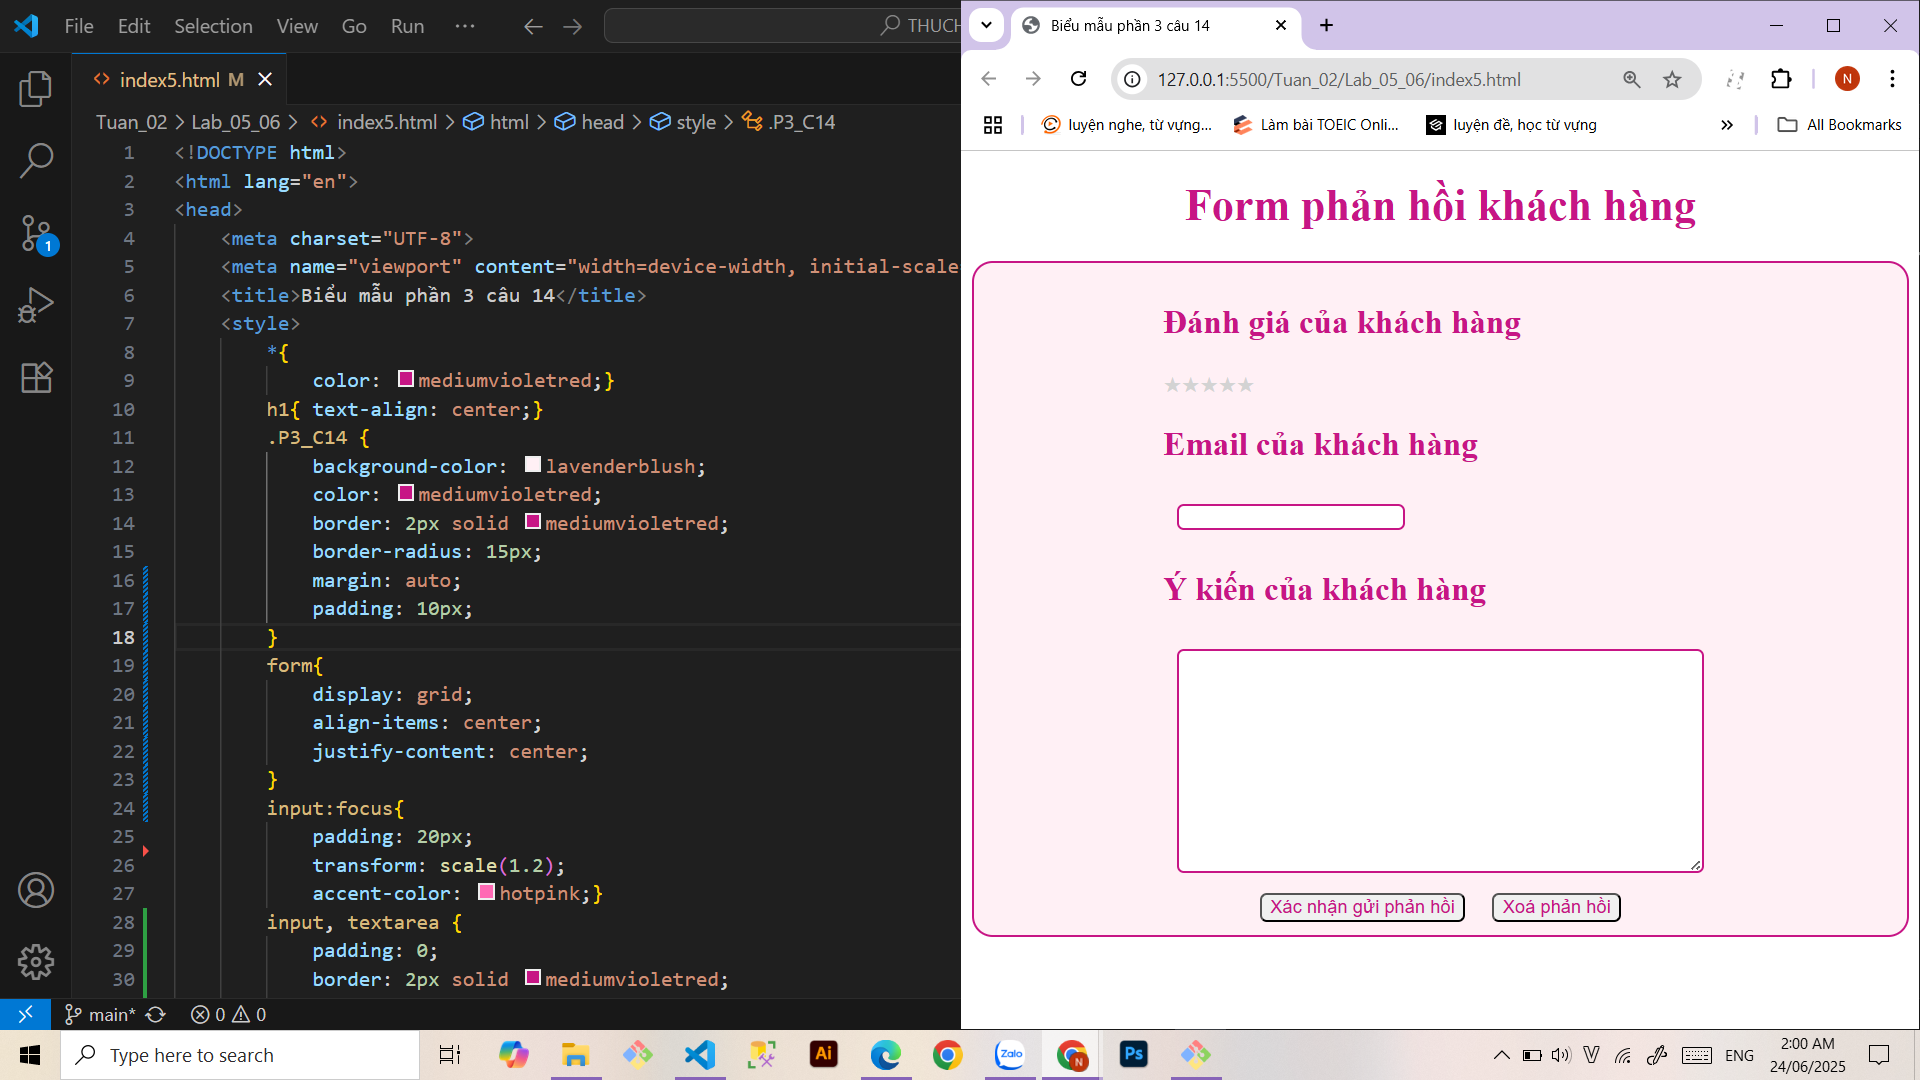
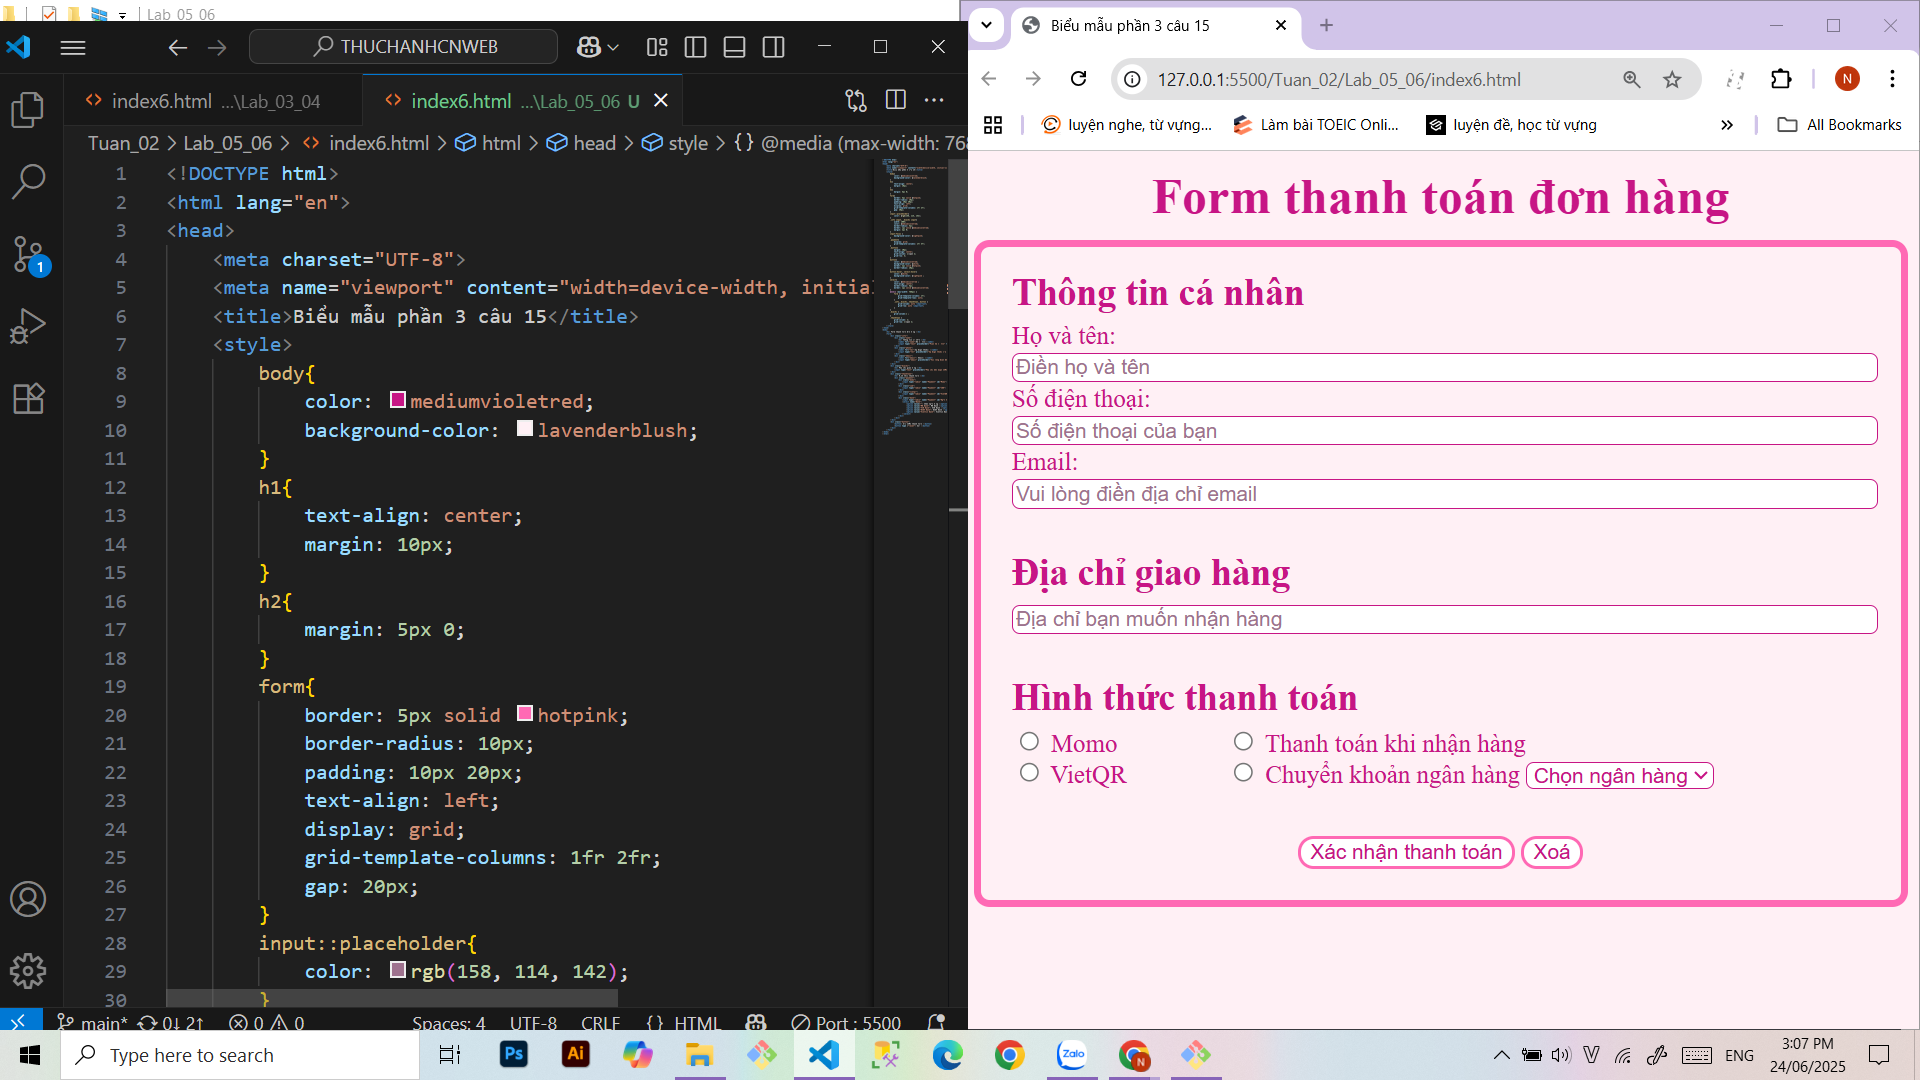
add file MC P3_C15.png + update index6.html

diff --git a/Tuan_02/Lab_05_06/index6.html b/Tuan_02/Lab_05_06/index6.html
@@ -1,0 +1,138 @@
+<!DOCTYPE html>
+<html lang="en">
+<head>
+    <meta charset="UTF-8">
+    <meta name="viewport" content="width=device-width, initial-scale=1.0">
+    <title>Biểu mẫu phần 3 câu 15</title>
+    <style>
+        body{
+            color: mediumvioletred;
+            background-color: lavenderblush;
+        }
+        h1{
+            text-align: center;
+            margin: 10px;
+        }
+        h2{
+            margin: 5px 0;
+        }
+        form{
+            border: 5px solid hotpink;
+            border-radius: 10px;
+            padding: 10px 20px;
+            text-align: left;
+            display: grid;
+            grid-template-columns: 1fr 2fr;
+            gap: 20px;
+        }
+        input::placeholder{
+            color: rgb(158, 114, 142);
+        }
+        .info input, .diachi input{
+            width: 100%;
+            color: mediumvioletred;
+            border-radius: 5px;
+            border: 1px solid mediumvioletred;
+            margin: 2px 0;
+        }
+        input:focus {
+            background-color: lightpink;
+        }
+        .payment{
+            display: grid;
+            grid-template-columns: 1fr 3fr;
+        }
+        .button{
+            margin: 10px;
+            text-align: center;
+            grid-column: 1/span 2;
+            grid-row: 3;
+        }
+        button{
+            color: mediumvioletred;
+            background-color: white;
+            border: 2px solid hotpink;
+            border-radius: 10px;  
+        }
+        button:hover, select:hover{
+            color: white;
+            background-color: lightpink ;
+        }
+        select{
+            color: mediumvioletred ;
+            text-align: center;
+            border-radius: 5px;
+            border: 1px solid mediumvioletred;
+        }
+        @media (max-width: 768px) {
+            form {
+                grid-template-columns: 1fr;
+                grid-template-rows: auto;
+            }
+            .info,.diachi,.thanhtoan,.button {
+                grid-column: auto !important;
+                grid-row: auto !important;
+            }
+        }
+        .diachi {
+            grid-column:1 ;
+        }
+        .thanhtoan {
+            grid-column: 2;
+            grid-row: 1/span 2;
+        }
+    </style>
+</head>
+<body>
+    <h1> Form thanh toán đơn hàng </h1>
+    <form>
+        <div class="info">
+            <div class="name">
+                <h2> Thông tin cá nhân </h2>
+                <label for="name">Họ và tên:</label> 
+                <input type="text" placeholder="Điền họ và tên" required>
+            </div>
+            <div class="phone">
+                <label for="tel">Số điện thoại: </label> 
+                <input type="tel" placeholder="Số điện thoại của bạn" required>
+            </div>
+            <div class="email">
+                <label for="email"> Email: </label> 
+                <input type="email" placeholder="Vui lòng điền địa chỉ email">
+            </div>
+        </div>
+        <div class="diachi">
+            <h2> Địa chỉ giao hàng </h2>
+            <input type="text" placeholder="Địa chỉ bạn muốn nhận hàng" required>
+        </div>
+        <div class="thanhtoan">
+            <h2> Hình thức thanh toán </h2>
+            <div class="payment">
+                <div class="momo">
+                    <input type="radio" name="Payment" id="Momo"> Momo <br>
+                </div>
+                <div class="cod">
+                    <input type="radio" name="Payment" id="COD"> Thanh toán khi nhận hàng 
+                </div>
+                <div class="vietqr">
+                    <input type="radio" name="Payment" id="VietQR"> VietQR 
+                </div>
+                <div class="bank">
+                    <input type="radio" name="Payment" id="Ngân hàng"> Chuyển khoản ngân hàng
+                    <select name="Bank">
+                        <option value=""> Chọn ngân hàng </option>
+                        <option value="MB Bank"> MB Bank </option>
+                        <option value="VCB Bank"> VCB Bank </option>
+                        <option value="BIDV Bank"> BIDV Bank </option>
+                        <option value="Viettin Bank"> Viettin Bank </option>
+                    </select>
+                </div>
+            </div>
+        </div>
+        <div class="button">
+            <button> Xác nhận thanh toán </button>
+            <button type ="reset"> Xoá </button>
+        </div>
+    </form>
+</body>
+</html>
